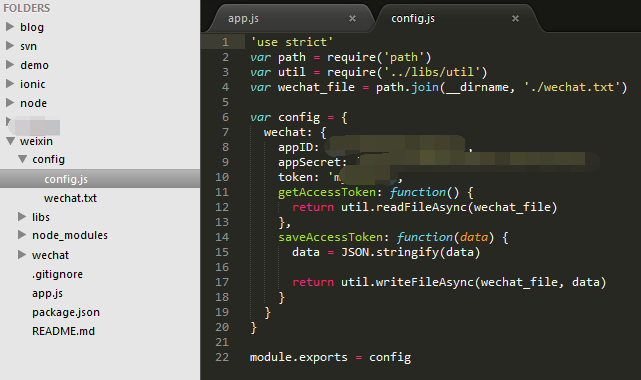
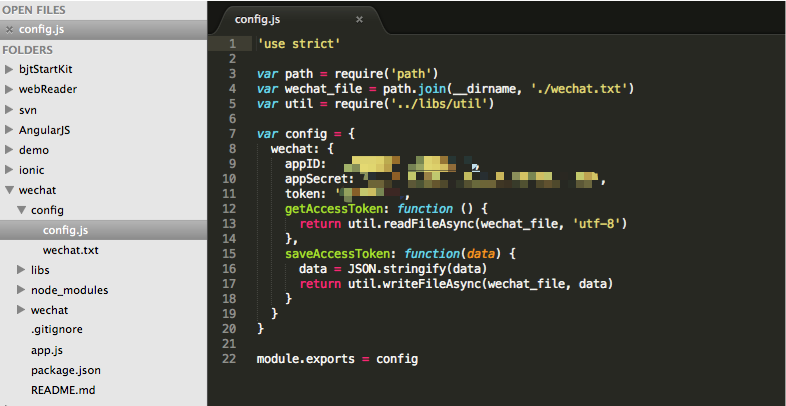
image

diff --git a/README.md b/README.md
@@ -1,1 +1,5 @@
 wechat by node
+
+config/config.js :
+
+![image](https://github.com/Hugo-seth/wechat/blob/master/images/1.png)
